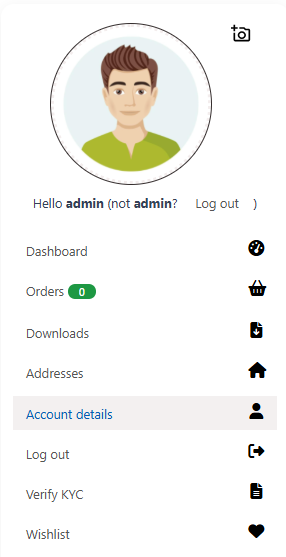
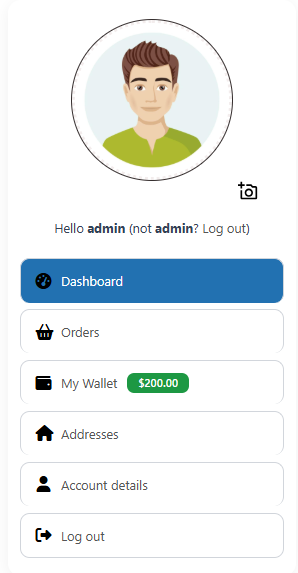
4.2.14

diff --git a/customize-my-account-for-woocommerce/assets/css/layout.css b/customize-my-account-for-woocommerce/assets/css/layout.css
@@ -24,11 +24,14 @@
     box-shadow:0 0 0 2px rgba(34,113,177,.15);
 }
 
-.sb-swatch img{
-    width:100%;
-    height:100%;
-    object-fit:cover;
-    display:block;
+.sb-swatch img {
+    width: 100%;
+    /* height: 100%; */
+    object-fit: fill;
+    /* display: block; */
+    min-height: 180px;
+    /* min-width: 200px; */
+    /* padding: 2%; */
 }
 
 .wcmamtx_layout button.btn.btn-sm.btn-info.expimpbuttons  {
@@ -62,15 +65,18 @@
 }
 
 .sb-swatch-sidebar img{
-    width:100%;
-    height:100%;
-    object-fit:cover;
-    display:block;
+    width: 100%;
+    /* height: 100%; */
+    object-fit: fill;
+    /* display: block; */
+    min-height: 180px;
+    /* min-width: 200px; */
+    /* padding: 2%; */
 }
 
 .sb-swatch-sidebar {
     padding: 5px;
-    min-width: 450px;
+   
     min-height: 250px;
 }
 
@@ -83,7 +89,7 @@ p.wcmamtx_layout_template_override_navigation.alert.alert-success {
     float: left;
     /* width: 33%; */
     padding: 5px;
-    min-width: 450px;
+   
     min-height: 250px;
 }
 
@@ -116,15 +122,17 @@ p.wcmamtx_layout_template_override_navigation.alert.alert-success {
 }
 
 .sb-swatch-navigation img{
-    width:100%;
-    height:100%;
-    object-fit:cover;
-    display:block;
+    float:left;
+    object-fit: fill;
+    /* display: block; */
+    min-height: 180px;
+    /* min-width: 200px; */
+    /* padding: 2%; */
 }
 
 .sb-swatch-navigation {
     padding: 5px;
-    /* min-width: 450px; */
+    max-width: 440px;
     min-height: 350px;
     padding: 1%;
 }
@@ -132,4 +140,29 @@ p.wcmamtx_layout_template_override_navigation.alert.alert-success {
 
 p.wcmamtx_layout_template_override_navigation.alert.alert-success,p.wcmamtx_layout_template_override.alert.alert-success {
     margin-top: 20px;
+}
+
+.sb-swatch {
+    height: 130%;
+    min-height: 190px;
+}
+
+span.wcmamtx_label_below_layout_images{
+    float: left;
+    font-size: 18px;
+    font-weight: bold;
+    margin-left: 20px;
+    /* text-align: center; */
+    margin-bottom: 10px;
+    width:100%;
+}
+
+.sb-swatch-sidebar {
+    height: 130%;
+    min-height: 210px;
+}
+
+.sb-swatch-navigation {
+    height: 130%;
+    min-height: 270px;
 }

diff --git a/customize-my-account-for-woocommerce/assets/css/frontend.css b/customize-my-account-for-woocommerce/assets/css/frontend.css
@@ -1447,7 +1447,7 @@ nav.woocommerce-MyAccount-navigation.wcmamtx_float_sidebar_right.wsmt_extra_navc
 }
 
 .wcmam-style-1{
- 
+    width:280px;
     background:#fff;
     border-radius:16px;
     padding:15px;
@@ -1455,7 +1455,7 @@ nav.woocommerce-MyAccount-navigation.wcmamtx_float_sidebar_right.wsmt_extra_navc
 }
 
 .wcmam-style-1 a{
-    display:inline;
+    display:flex;
     align-items:center;
     gap:12px;
     padding:14px 18px;
@@ -1470,11 +1470,10 @@ nav.woocommerce-MyAccount-navigation.wcmamtx_float_sidebar_right.wsmt_extra_navc
     background:#f5f7fa;
 }
 
-.wcmam-style-1 .is-active{
-    background:#2271b1 !important;
-    color:#fff !important;
+.wcmam-style-1 a.is-active{
+    background:#2271b1;
+    color:#fff;
 }
-
 
 nav.wcmam-nav.wcmam-style-1 {
     float: left;
@@ -1490,19 +1489,16 @@ nav.wcmam-nav.wcmam-style-1 {
 
 }
 
-nav.wcmam-nav.wcmam-style-1 .ql-align-center a ,nav.wcmam-nav.wcmam-style-1 a  {
-    display:auto !important;
-
+nav.wcmam-nav.wcmam-style-1 .ql-align-center a {
+    display:inline !important;
 }
 
 nav.wcmam-nav.wcmam-style-1 .ql-align-center a {
     padding:0px;
 }
 
-.wcmam-style-1 li.woocommerce-MyAccount-navigation-link a {
-    border-radius:0px;
-}
 
-.wcmam-style-1 .woocommerce-MyAccount-navigation-link {
-    border:0px !important;
+.wcmam-style-1 .wcmamtx-banner-counter-sidebar {
+    width: auto;
+
 }

diff --git a/customize-my-account-for-woocommerce/assets/js/layout.js b/customize-my-account-for-woocommerce/assets/js/layout.js
@@ -92,10 +92,15 @@ jQuery(document).ready(function($){
 
             if(value2 !== '' && sidebarImages[value2]){
 
+                var texttoinsert = $(this).attr("gtext");
+
+                htlmtoinsert = '<span class="wcmamtx_label_below_layout_images">'+texttoinsert+'</span>';
+
                 swatches_sidebar += `
                     <div class="sb-swatch-sidebar ${selectedclass2}"
                          data-value="${value2}">
                         <img src="${sidebarImages[value2]}" alt="${value2}">
+                        ${htlmtoinsert}
                     </div>
                 `;
             }
@@ -144,10 +149,16 @@ jQuery(document).ready(function($){
             }
 
             if(value3 !== '' && navigationImages[value3]){
+
+                var texttoinsert = $(this).attr("gtext");
+
+                htlmtoinsert = '<span class="wcmamtx_label_below_layout_images">'+texttoinsert+'</span>';
+
                 swatches3 += `
                     <div class="sb-swatch-navigation ${selectedclass3}"
                          data-value="${value3}">
                         <img src="${navigationImages[value3]}" alt="${value3}">
+                        ${htlmtoinsert}
                     </div>
                 `;
             }

diff --git a/customize-my-account-for-woocommerce/templates/myaccount/navigation/02.php b/customize-my-account-for-woocommerce/templates/myaccount/navigation/02.php
@@ -15,6 +15,7 @@ if ($sidebar_style == 02) {
 
 ?>
 <nav class="wcmam-nav wcmam-style-1 <?php echo $extra_nav_sidebar_class; ?> <?php echo $menu_position_extra_class; ?>">
+
     <?php
 
     $show_avatar = 'yes';
@@ -73,16 +74,13 @@ if ($sidebar_style == 02) {
 
     $wcmamtx_layout = (array) get_option( 'wcmamtx_layout' );
 
-    
+    $default_style = isset($wcmamtx_layout['style']) ? $wcmamtx_layout['style'] : "01";
 
     ?>
-   
 
-        <?php foreach ( $wcmamtx_tabs as $key => $value ) { 
+    <?php foreach ( $wcmamtx_tabs as $key => $value ) {
 
-
-
-            if (isset($value['endpoint_name']) && ($value['endpoint_name'] != '')) {
+        if (isset($value['endpoint_name']) && ($value['endpoint_name'] != '')) {
                 $name = $value['endpoint_name'];
             } else {
                 $name = $value;
@@ -155,34 +153,65 @@ if ($sidebar_style == 02) {
                  }
             }
 
-
             if (($should_show == "yes") && ($is_visible == "yes")) {
             
-                if (isset($value['wcmamtx_type']) && ($value['wcmamtx_type'] == "group")) {
-
-                    
-                    wcmamtx_get_account_menu_group_html( $name,$key ,$value ,$icon_extra_class,$extraclass,$icon_source );
-                    
-                    
-
-            
-                } else {
+               
 
                    
 
-                    if (($parent == "none")) {
+                if (($parent == "none")) {
 
 
-                        wcmamtx_get_account_menu_li_html( $name,$key ,$value ,$icon_extra_class,$extraclass,$icon_source );
+                    $wsmt_li_fontsize = get_theme_mod('wsmt_li_fontsize');
+
+                    $font_size = isset($wsmt_li_fontsize) ? $wsmt_li_fontsize : "16px";
+
+                    $wsmt_li_padding = get_theme_mod('wsmt_li_padding');
+
+                    $padding_left = isset($wsmt_li_padding) ? $wsmt_li_padding : "0px";
+
+
+                    if (isset($value['wcmamtx_type']) && ($value['wcmamtx_type'] == "separater")) {
+
+                        echo '<br/>';
+
+                    } else {
+
+
+
+                        $wcmamtx_type = isset($value['wcmamtx_type']) && is_array($value) ? $value['wcmamtx_type'] : "endpoint";
+
+                        ?>
+
+
+
+
+                            <a class="woocommerce-MyAccount-navigation-link_a <?php echo wcmamtx_get_account_menu_item_classes( $key , $value ); ?> <?php echo  $wcmamtx_type; ?> <?php echo $extraclass; ?> <?php if ($icon_source == "custom") { echo $icon_extra_class; } ?>"  href="<?php echo wcmamtx_get_account_endpoint_url( $key ); ?>" <?php if (isset($wcmamtx_type) && ($wcmamtx_type == "link") && (isset($value['link_targetblank'])) && ($value['link_targetblank'] == 01) ) { echo 'target="_blank"'; } ?>>
+                                <?php wcmamtx_get_account_menu_li_icon_html($icon_source,$value,$key); ?>
+                                <span class="wcmamtx_sticky_icon_name">
+                                    <?php echo esc_html( $name ); ?>
+
+                                </span>
+                                <?php 
+                                $hide_sidebar = isset($value['hide_sidebar']) && ($value['hide_sidebar'] == "01") ? "yes" : "no";
+
+                                if ($hide_sidebar == "no") {
+                                    echo wcmamtx_counter_bubble($key,$value,"yes"); 
+                                }
+
+                                ?>
+                            </a>
+                        
+                        <?php
                     }
 
-                } ?>
 
-            <?php } ?>
-        
-        <?php } ?>
-    
-    <?php do_action( 'wcmamtx_after_account_navigation' ); ?>
+
+                }
+
+            }
+
+    } ?>
 
     
 </nav>

diff --git a/customize-my-account-for-woocommerce/customize-my-account-for-woocommerce.php b/customize-my-account-for-woocommerce/customize-my-account-for-woocommerce.php
@@ -2,8 +2,8 @@
 /*
     Plugin Name: SysBasics Customize My Account for WooCommerce
     Plugin URI: https://sysbasics.com
-    Description: Customize My account page. Add/Edit/Remove Endpoints.
-    Version: 4.2.13
+    Description: Easily customize the WooCommerce My Account page. Mobile Friendly User avatar, redesign the WooCommerce dashboard, manage menus, and apply premium styles for a better user experience.
+    Version: 4.2.14
     Author: SysBasics
     Author URI: https://sysbasics.com
     Domain Path: /languages

diff --git a/customize-my-account-for-woocommerce/include/admin/forms/layout_form.php b/customize-my-account-for-woocommerce/include/admin/forms/layout_form.php
@@ -21,7 +21,7 @@ $nav_style = isset($wcmamtx_layout['nav_style']) ? $wcmamtx_layout['nav_style'] 
 		<td>
 			<select class="wcmamtx_layout_design_select" name="<?php  echo esc_html__($this->wcmamtx_layout_page); ?>[dash_style]" style="display: none;">			
 					<option value="01" gtext="<?php echo esc_html__('Default','customize-my-account-for-woocommerce'); ?>"  <?php if (isset($dash_style) && ($dash_style == 01)) { echo 'selected'; } ?>></option> 
-					<option value="02" gtext="<?php echo esc_html__('classic','customize-my-account-for-woocommerce'); ?>"  <?php if (isset($dash_style) && ($dash_style == 02)) { echo 'selected'; } ?>></option> 
+					<option value="02" gtext="<?php echo esc_html__('Classic','customize-my-account-for-woocommerce'); ?>"  <?php if (isset($dash_style) && ($dash_style == 02)) { echo 'selected'; } ?>></option> 
 				    <option value="03" gtext="<?php echo esc_html__('Card','customize-my-account-for-woocommerce'); ?>"  <?php if (isset($dash_style) && ($dash_style == 03)) { echo 'selected'; } ?>></option> 
 					<option value="04" gtext="<?php echo esc_html__('Tile','customize-my-account-for-woocommerce'); ?>"  <?php if (isset($dash_style) && ($dash_style == 04)) { echo 'selected'; } ?>></option> 
 			</select>
@@ -42,7 +42,7 @@ $nav_style = isset($wcmamtx_layout['nav_style']) ? $wcmamtx_layout['nav_style'] 
 		</td>
 		<td>
 			<select class="wcmamtx_layout_sidebar_select" name="<?php  echo esc_html__($this->wcmamtx_layout_page); ?>[sidebar_style]" style="display: none;">			
-					<option value="01" gtext="<?php echo esc_html__('left Sidebar','customize-my-account-for-woocommerce'); ?>" <?php if (isset($sidebar_style) && ($sidebar_style == 01)) { echo 'selected'; } ?>></option> 
+					<option value="01" gtext="<?php echo esc_html__('Left Sidebar','customize-my-account-for-woocommerce'); ?>" <?php if (isset($sidebar_style) && ($sidebar_style == 01)) { echo 'selected'; } ?>></option> 
 					<option value="02" gtext="<?php echo esc_html__('Right Sidebar','customize-my-account-for-woocommerce'); ?>" <?php if (isset($sidebar_style) && ($sidebar_style == 02)) { echo 'selected'; } ?>></option> 
 			</select>
 